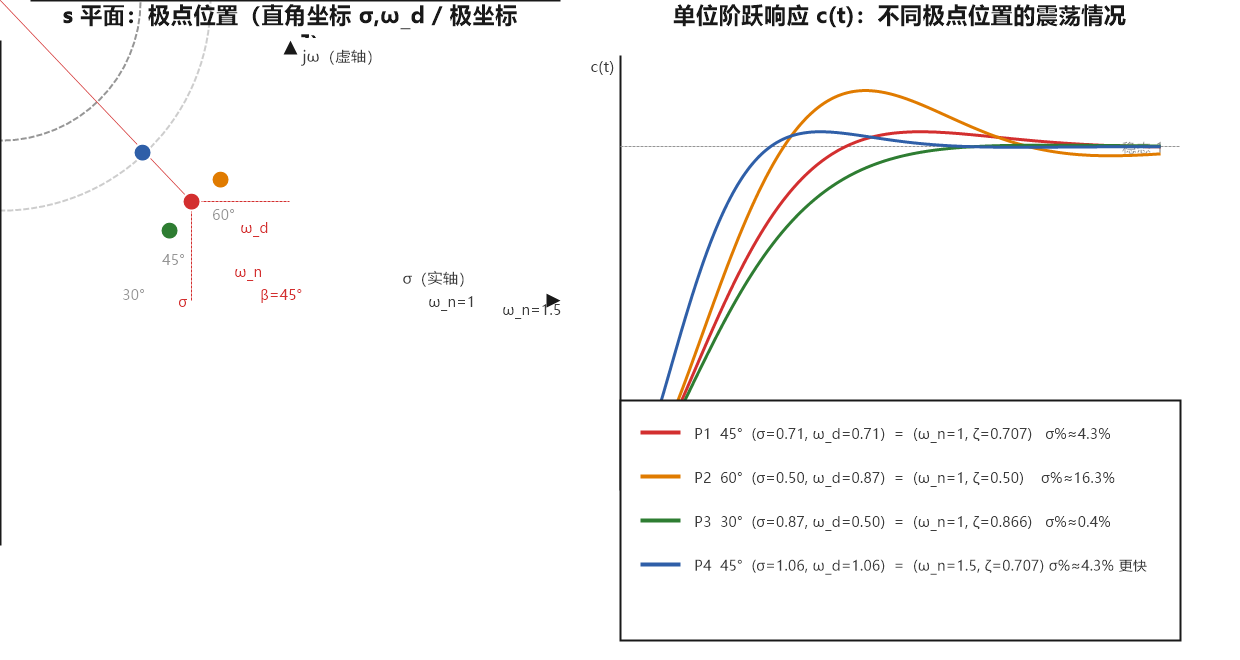
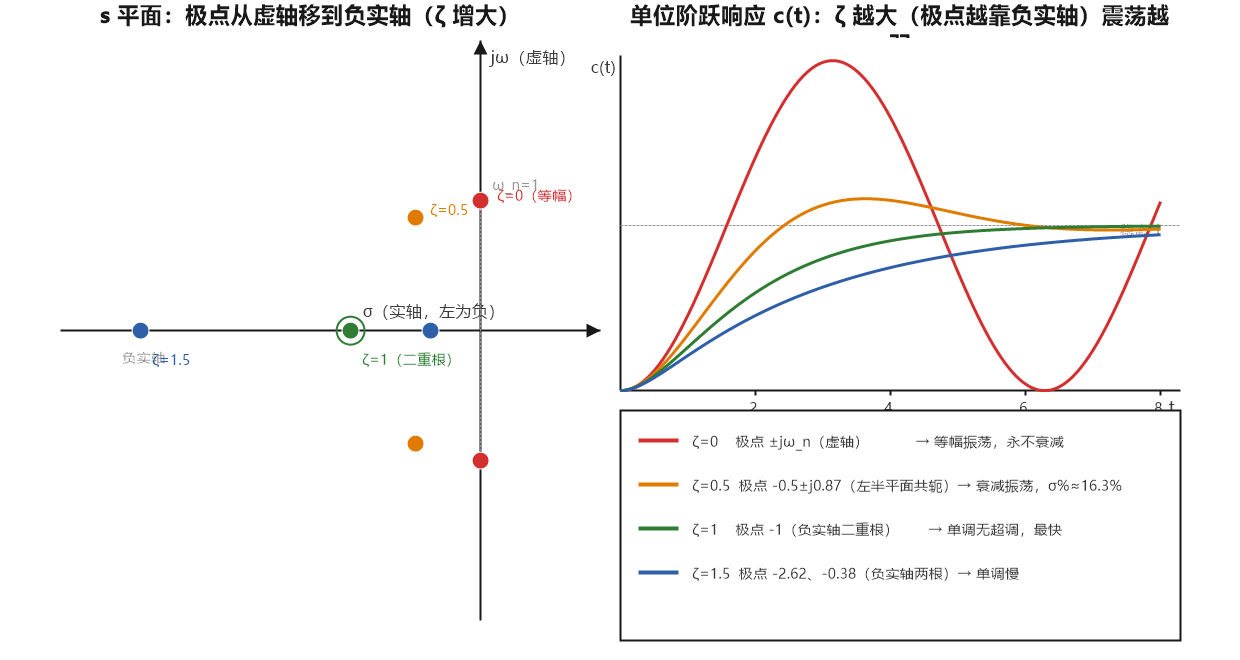
docs: 03-1 示意图改为完整阻尼家族——极点从虚轴移到负实轴(ζ0/0.5/1/1.5)对应阶跃响应震荡变化(GDI+,像素抽样+曲线系数复核)

diff --git a/自动控制原理/03-1 一阶与二阶系统的时域响应.md b/自动控制原理/03-1 一阶与二阶系统的时域响应.md
@@ -141,7 +141,7 @@ $$
 
 ![[自控-s平面极点震荡.png|520]]
 
-*不同极点位置（直角坐标 σ,ω_d / 极坐标 ω_n,ζ 两种表示）对应的单位阶跃响应震荡情况：P1~P3 沿 ω_n=1 圆弧动 → 只变 ζ；P4 沿 45° 射线远离原点 → 时间尺度缩短、响应加快*
+*极点从虚轴移到负实轴（ζ 由 0→1.5）对应的单位阶跃响应震荡情况：ζ=0（±jω_n）等幅振荡；欠阻尼（0<ζ<1）衰减振荡；ζ≥1（负实轴二重根/两实根）单调、不再震荡——极点越靠近负实轴，震荡越弱直至消失*
 
 **① 直角坐标表示**（极点 $s_{1,2}=-\sigma\pm\mathrm{j}\omega_d$，实部管衰减、虚部管振荡）：
 
